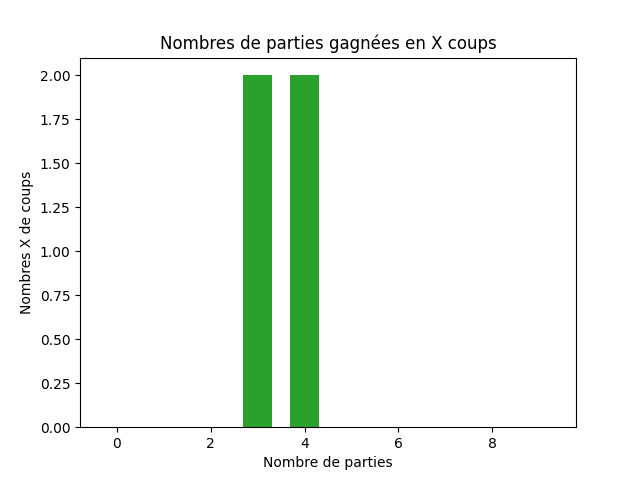
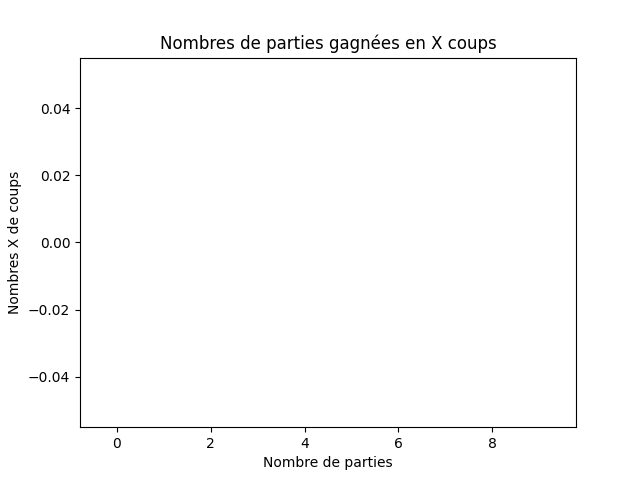
Page stat big50/Survie

diff --git a/web/templates/statistiques-big50.html b/web/templates/statistiques-big50.html
@@ -17,16 +17,16 @@
    <button class="bouton" onclick="window.location.href = 'historique';">Votre Historique</button>
    <button class="bouton" onclick="window.location.href = 'succes';">Vos Succès</button>
    <button class="bouton" onclick="window.location.href = 'statistiques';">Mode de jeu Classique</button>
-   <button class="bouton" onclick="window.location.href = 'statistiques-mdj1';">Mode de jeu 1</button>
+   <button class="bouton" onclick="window.location.href = 'statistiques-survie';">Mode de jeu Survie</button>
     
-    <h1 class="titre"> Parties MDJ2 </h1>
-    
-      	<p class="graph"><img src="static/image.png" class="histogramme" alt="image" title="Histogramme"></p> 
+    <h1 class="titre"> Parties Big50 </h1>
+      
+    	<p class="graph"><img src="static/image.png" class="histogramme" alt="image" title="Histogramme"></p> 
     	<div class="box">
 	<p><br>Parties jouées : {{liste[0]}} 
 	<br><br>Parties gagnées : {{liste[1]}}
-	<br><br>Taux de victoire : {{liste[2]}}
-	<br><br>Nombre de coups moyen : {{liste[4]}}
+	<br><br>Score moyen : {{liste[4]}}
+	<br><br>Meilleur score : {{liste[5]}}
 	<br><br>Expérience : {{liste[3]}}
 	</p>
 	</div>

diff --git a/web/templates/statistiques-survie.html b/web/templates/statistiques-survie.html
@@ -17,16 +17,16 @@
    <button class="bouton" onclick="window.location.href = 'historique';">Votre Historique</button>
    <button class="bouton" onclick="window.location.href = 'succes';">Vos Succès</button>
    <button class="bouton" onclick="window.location.href = 'statistiques';">Mode de jeu Classique</button>
-   <button class="bouton" onclick="window.location.href = 'statistiques-mdj2';">Mode de jeu 2</button>
+   <button class="bouton" onclick="window.location.href = 'statistiques-big50';">Mode de jeu Big50</button>
     
-    <h1 class="titre"> Parties MDJ1 </h1>
-      
-    	<p class="graph"><img src="static/image.png" class="histogramme" alt="image" title="Histogramme"></p> 
+    <h1 class="titre"> Parties Survie </h1>
+    
+      	<p class="graph"><img src="static/image.png" class="histogramme" alt="image" title="Histogramme"></p> 
     	<div class="box">
 	<p><br>Parties jouées : {{liste[0]}} 
 	<br><br>Parties gagnées : {{liste[1]}}
-	<br><br>Taux de victoire : {{liste[2]}}
-	<br><br>Nombre de coups moyen : {{liste[4]}}
+	<br><br>Score moyen : {{liste[4]}}
+	<br><br>Meilleur score : {{liste[5]}}
 	<br><br>Expérience : {{liste[3]}}
 	</p>
 	</div>

diff --git a/web/templates/statistiques.html b/web/templates/statistiques.html
@@ -16,8 +16,8 @@
    
    <button class="bouton" onclick="window.location.href = 'historique';">Votre Historique</button>
    <button class="bouton" onclick="window.location.href = 'succes';">Vos Succès</button>
-   <button class="bouton" onclick="window.location.href = 'statistiques-mdj1';">Mode de jeu 1</button>
-   <button class="bouton" onclick="window.location.href = 'statistiques-mdj2';">Mode de jeu 2</button>
+   <button class="bouton" onclick="window.location.href = 'statistiques-survie';">Mode de jeu Survie</button>
+   <button class="bouton" onclick="window.location.href = 'statistiques-big50';">Mode de jeu Big50</button>
     
     <h1 class="titre"> Parties classiques </h1>
     

diff --git a/web/app.py b/web/app.py
@@ -384,37 +384,37 @@ def stat():
     #Selection des stats d'un joueur en particulier
     nb_vict,nb_parties,xp,taux_vict=selection_joueur(user,data)
     #Tracer histogramme
-    moyenne,meilleur=trace_histo(user)
+    moyenne,meilleur,inutile=trace_histo(user,"Classique")
 
     return render_template("statistiques.html", liste=[nb_parties,nb_vict,taux_vict,xp,moyenne,meilleur])
 
-#Statistiques MDJ1
-@app.route('/statistiques-mdj1')
+#Statistiques Big50
+@app.route('/statistiques-big50')
 @login_required
-def stat_mdj1():
+def stat_big50():
     user=session["username"]
     #Connection a la bdd
     data=recup_data(user)
     #Selection des stats d'un joueur en particulier
     nb_vict,nb_parties,xp,taux_vict=selection_joueur(user,data)
     #Tracer histogramme
-    moyenne=trace_histo(user)
+    moyenne,inutile,meilleur=trace_histo(user,"Big50")
 
-    return render_template("statistiques-mdj1.html", liste=[nb_parties,nb_vict,taux_vict,xp,moyenne])
+    return render_template("statistiques-big50.html", liste=[nb_parties,nb_vict,taux_vict,xp,moyenne])
 
-#Statistiques MDJ2
-@app.route('/statistiques-mdj2')
+#Statistiques Survie
+@app.route('/statistiques-survie')
 @login_required
-def stat_mdj2():
+def stat_survie():
     user=session["username"]
     #Connection a la bdd
     data=recup_data(user)
     #Selection des stats d'un joueur en particulier
     nb_vict,nb_parties,xp,taux_vict=selection_joueur(user,data)
     #Tracer histogramme
-    moyenne=trace_histo(user)
+    moyenne,inutile,meilleur=trace_histo(user,"Survie")
 
-    return render_template("statistiques-mdj2.html", liste=[nb_parties,nb_vict,taux_vict,xp,moyenne])
+    return render_template("statistiques-survie.html", liste=[nb_parties,nb_vict,taux_vict,xp,moyenne])
 
 
 

diff --git a/web/fonctions_stat.py b/web/fonctions_stat.py
@@ -23,11 +23,11 @@ def recup_data(user):
     con.close()
     return(data)
 
-def trace_histo(user):              #ET CALCULE MOYENNE
+def trace_histo(user,mdj):              #ET CALCULE MOYENNE
     histo=[]
     con=sqlite3.connect('wordle.sql')
     cur = con.cursor()
-    for i in cur.execute("SELECT * FROM Historique WHERE Identifiant = (?) AND Mode_de_jeu = (?)", ([user,"Classique"])):
+    for i in cur.execute("SELECT * FROM Historique WHERE Identifiant = (?) AND Mode_de_jeu = (?)", ([user,mdj])):
         histo.append(i)
     con.commit()
     con.close()
@@ -45,9 +45,11 @@ def trace_histo(user):              #ET CALCULE MOYENNE
         moyenne=moyenne[:3]
     
     if x==[]:
-        meilleur=0
+        meilleur_classique=0
+        meilleur_score=0
     else:
-        meilleur=min(x)
+        meilleur_classique=min(x)
+        meilleur_score=max(x)
 
     plt.clf()
     plt.hist(x, range=(0, 10), bins=10, rwidth = 0.6, align='left')
@@ -55,7 +57,7 @@ def trace_histo(user):              #ET CALCULE MOYENNE
     plt.ylabel('Nombres X de coups')
     plt.title("Nombres de parties gagnées en X coups")
     plt.savefig('static/image.png')
-    return(moyenne,meilleur)
+    return(moyenne,meilleur_classique,meilleur_score)
 
 def selection_joueur(user,data):
     nb_vict=data[4]
